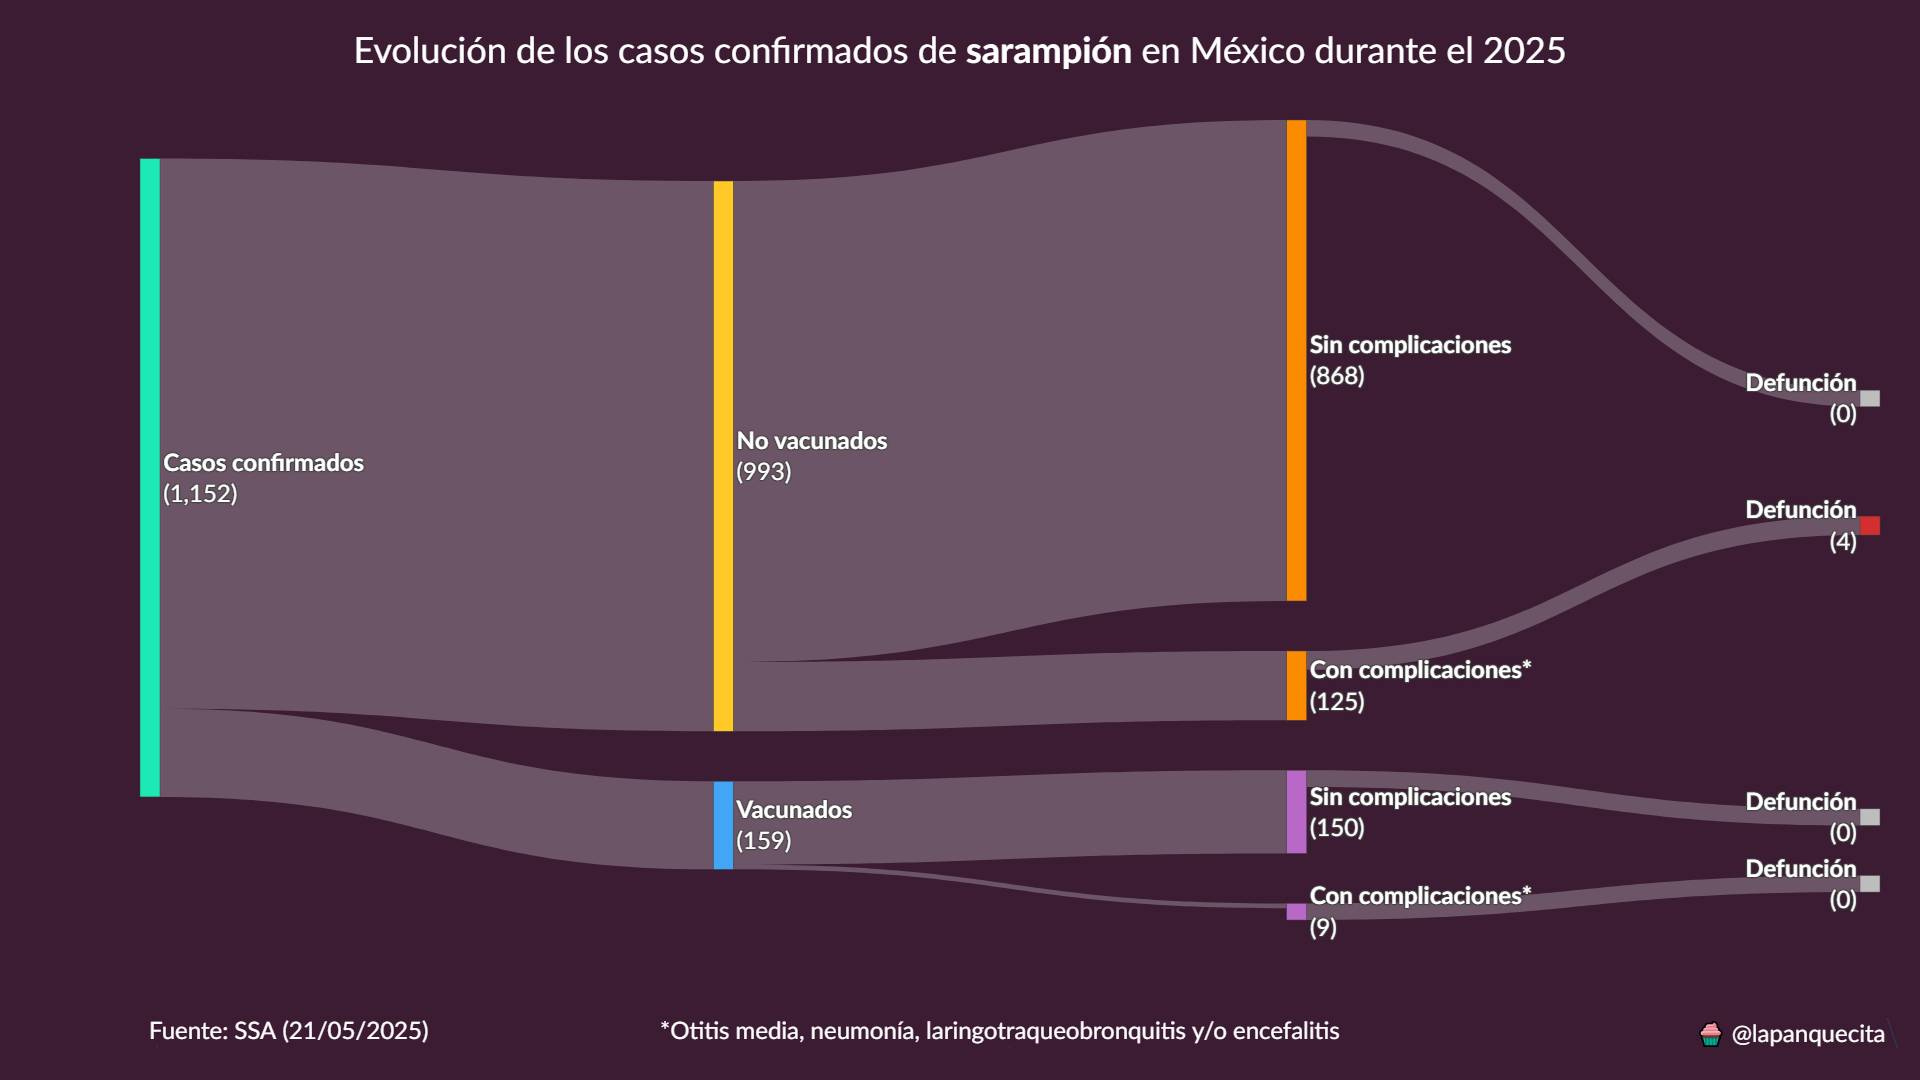
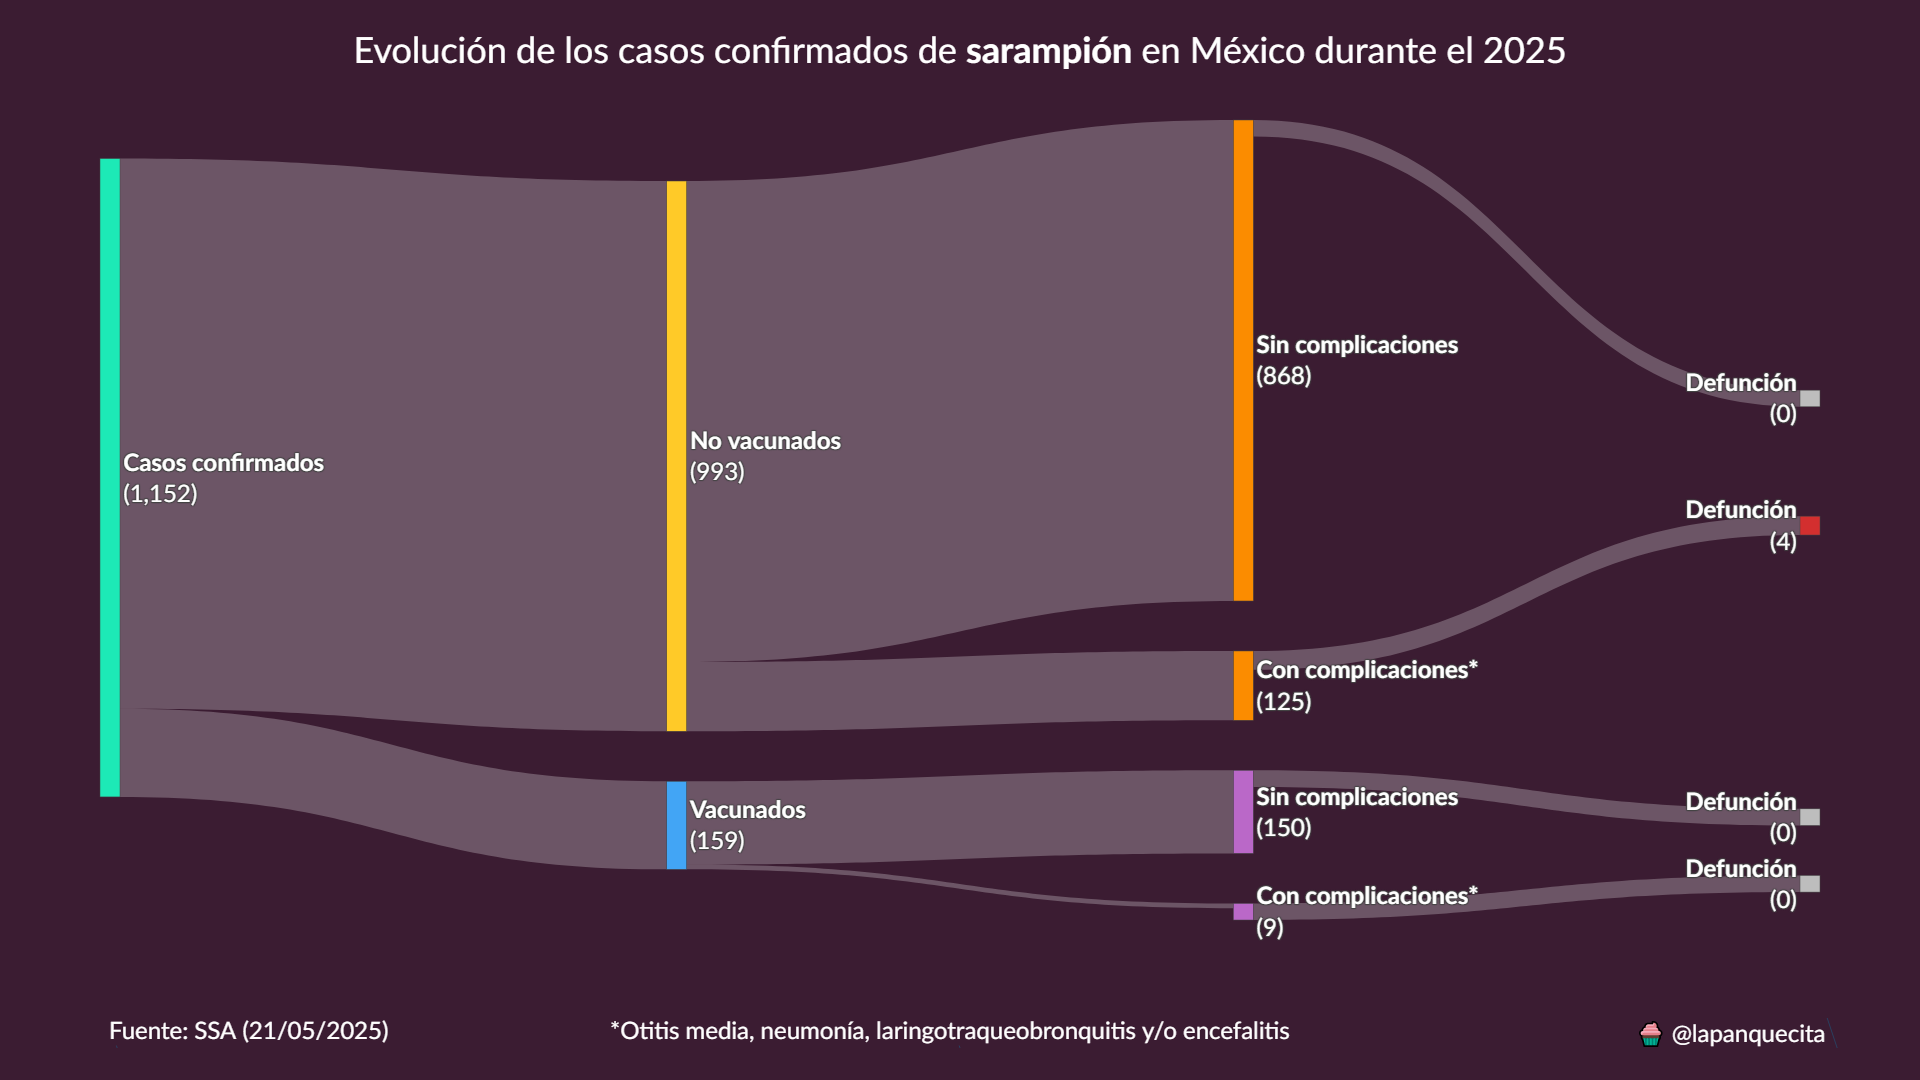
Ajuste margen

diff --git a/script.py b/script.py
@@ -507,9 +507,9 @@ def evolucion_casos(año):
         title_x=0.5,
         title_y=0.965,
         margin_t=120,
-        margin_r=40,
+        margin_r=100,
         margin_b=160,
-        margin_l=140,
+        margin_l=100,
         title_font_size=36,
         plot_bgcolor="#1A1A1D",
         paper_bgcolor="#3B1C32",
